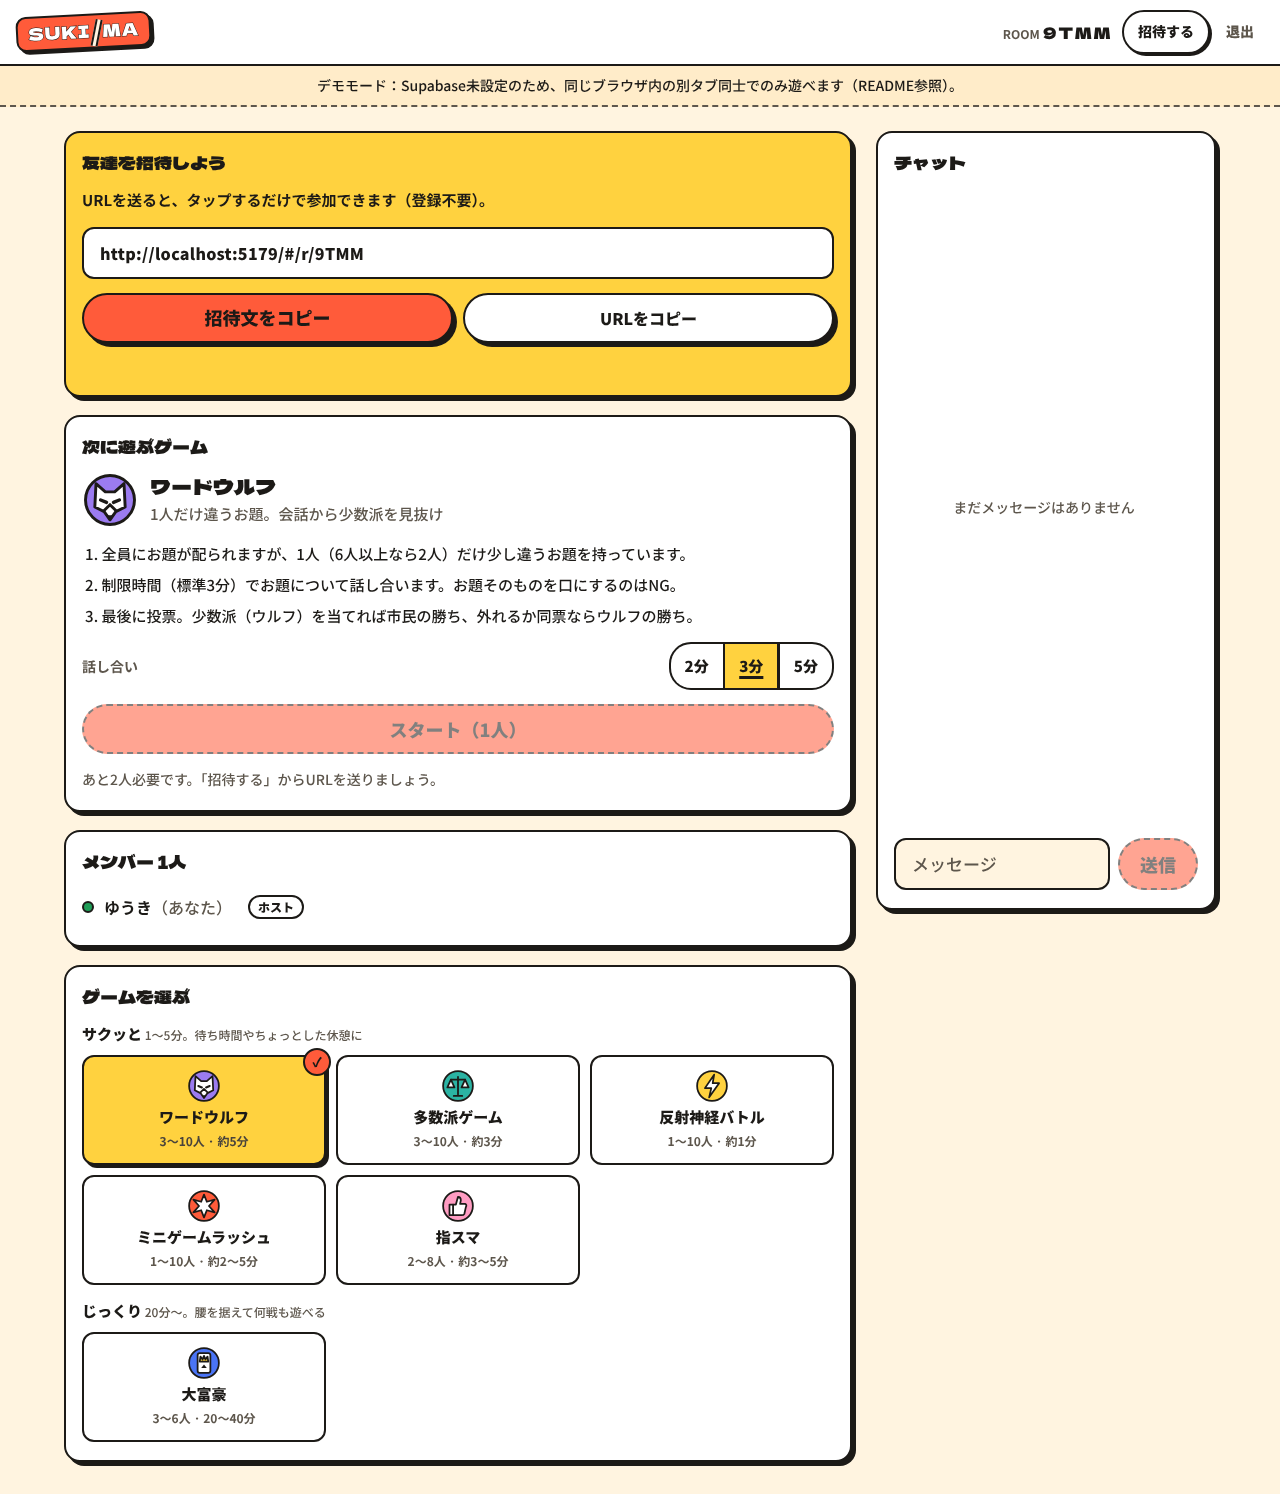
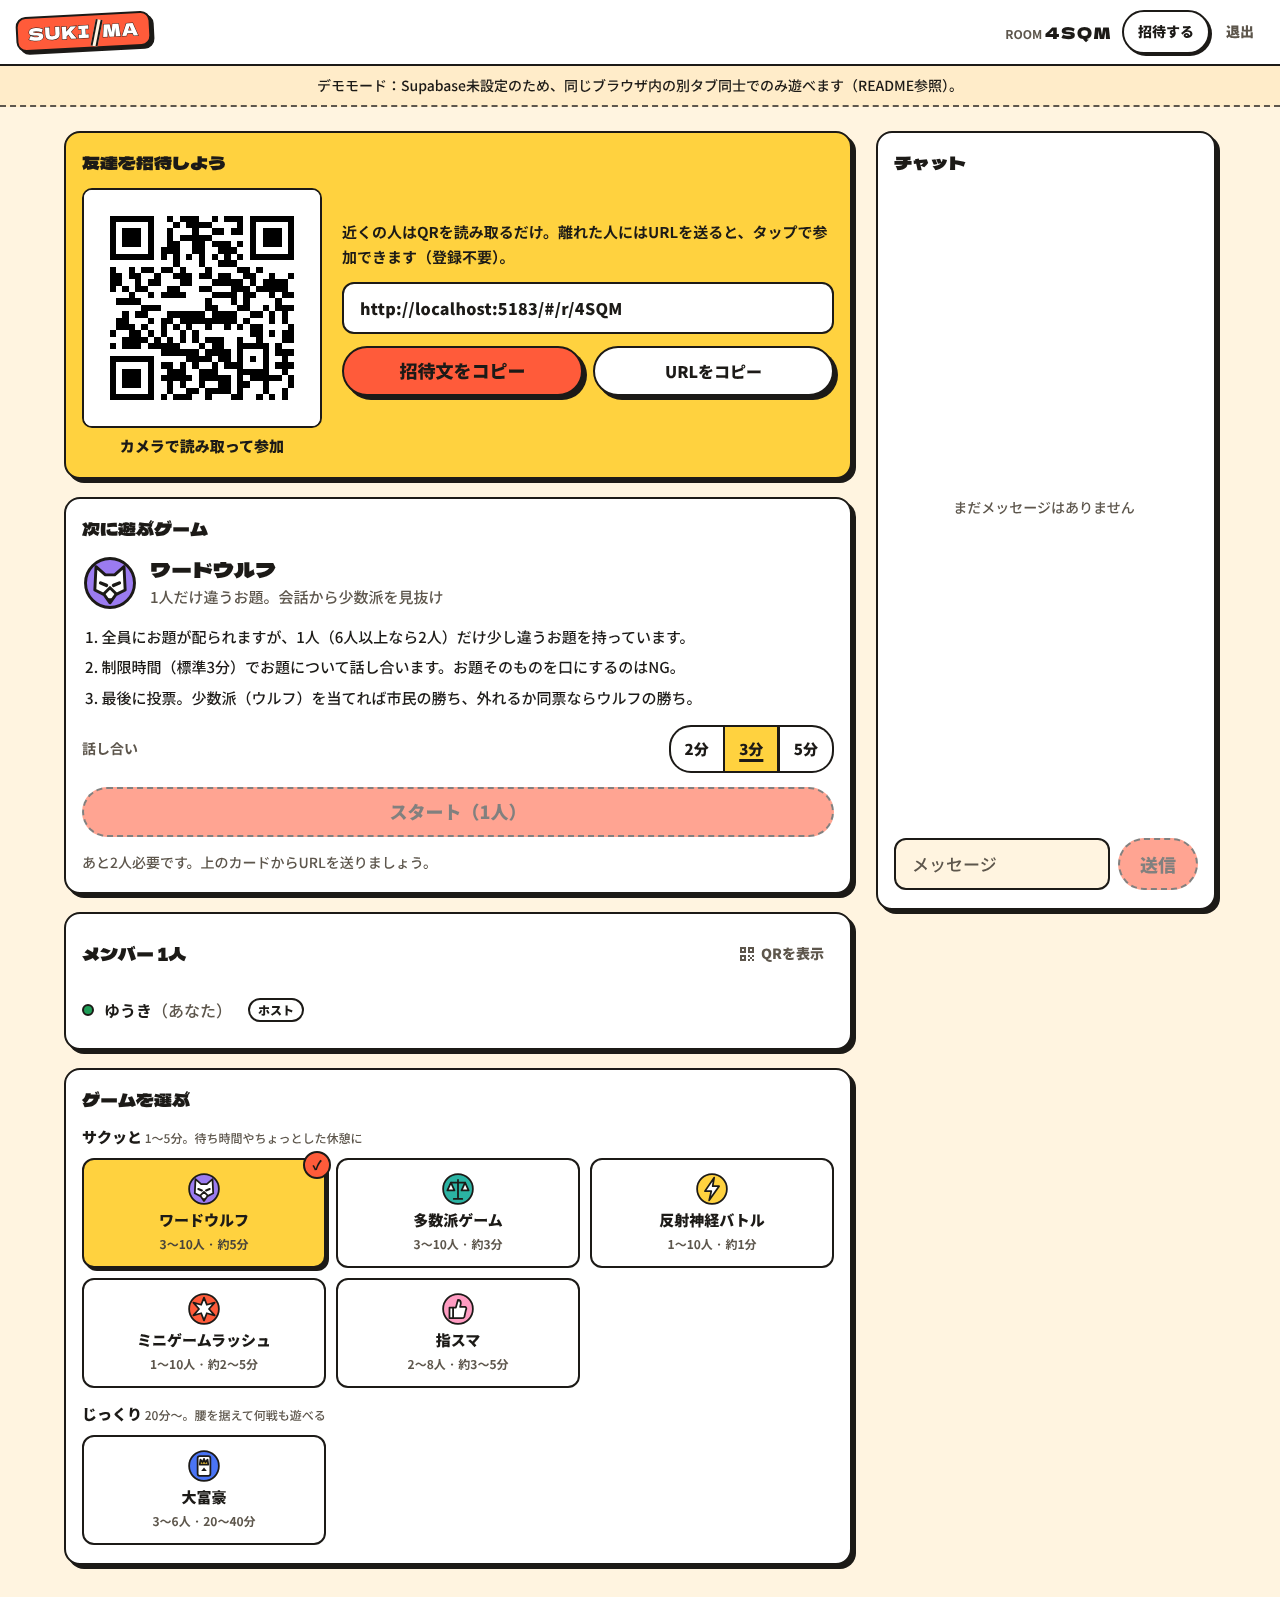
Show invite URL QR code in lobby (D-25)
Claude-Session: https://claude.ai/code/session_01H41cTqMxdqRgXVNK8y2DkT

diff --git a/src/components/Room.tsx b/src/components/Room.tsx
@@ -7,6 +7,7 @@ import { isOnlineMode } from '../lib/transport';
 import { chatBlockedUntil, MAX_ROOM_PLAYERS, type RoomState } from '../room/logic';
 import { useRoom, type RoomHandle } from '../room/useRoom';
 import Chat from './Chat';
+import QrCode from './QrCode';
 import GameIcon, { ChatIcon } from './GameIcon';
 import ErrorBoundary, { CrashScreen, reloadPage } from './ErrorBoundary';
 import { Brand, DemoBanner } from './Layout';
@@ -392,7 +393,7 @@ function Members({
   onKick: (id: string) => void;
 }) {
   return (
-    <Panel className="members-panel" title={`メンバー ${state.players.length}人`}>
+    <Panel className="members-panel" title={`メンバー ${state.players.length}人`} aside={<QrButton code={state.code} />}>
       <ul className="members">
         {state.players.map((p) => (
           <li key={p.id} className={online.has(p.id) ? '' : 'offline'}>
@@ -461,6 +462,54 @@ function GameCrashed({ onRetry, onLobby }: { onRetry: () => void; onLobby?: () =
   );
 }
 
+// 2 人以上になって招待カードが消えたあとも、目の前の人を追加で呼べるように QR を出す（D-25）。
+// ヘッダーは 320px で既に 1 行ぎりぎり（QA-BUG-08）なので、メンバー欄の見出しに置く
+function QrButton({ code }: { code: string }) {
+  const [open, setOpen] = useState(false);
+  return (
+    <>
+      <button className="btn small ghost qr-btn" onClick={() => setOpen(true)} aria-haspopup="dialog">
+        <QrGlyph />
+        QRを表示
+      </button>
+      {open && <QrDialog url={roomUrl(code)} code={code} onClose={() => setOpen(false)} />}
+    </>
+  );
+}
+
+function QrDialog({ url, code, onClose }: { url: string; code: string; onClose: () => void }) {
+  useEffect(() => {
+    const onKey = (e: KeyboardEvent) => {
+      if (e.key === 'Escape') onClose();
+    };
+    window.addEventListener('keydown', onKey);
+    return () => window.removeEventListener('keydown', onKey);
+  }, [onClose]);
+  return (
+    <div className="qr-backdrop" onClick={onClose}>
+      <div className="qr-dialog" role="dialog" aria-modal="true" aria-label="招待のQRコード" onClick={(e) => e.stopPropagation()}>
+        <QrCode text={url} label="招待URLのQRコード" />
+        <p className="qr-caption">カメラで読み取って参加</p>
+        <p className="muted qr-code-line">
+          ROOM <span className="mono">{code}</span>
+        </p>
+        <button className="btn" onClick={onClose} autoFocus>
+          閉じる
+        </button>
+      </div>
+    </div>
+  );
+}
+
+// ボタン用の小さな QR の印（中身は飾り。読み取り用ではない）
+function QrGlyph() {
+  return (
+    <svg className="qr-glyph" viewBox="0 0 16 16" aria-hidden="true" fill="currentColor">
+      <path d="M1 1h6v6H1zm2 2v2h2V3zM9 1h6v6H9zm2 2v2h2V3zM1 9h6v6H1zm2 2v2h2v-2zM9 9h2v2H9zm2 2h2v2h-2zm2-2h2v2h-2zm0 4h2v2h-2zm-4 0h2v2H9z" />
+    </svg>
+  );
+}
+
 // ホスト 1 人のロビーで最初に見せる招待カード（J-02）。URL を見せ、コピーと共有を大きいボタンで並べる
 function InviteCard({ code, gameName }: { code: string; gameName: string | undefined }) {
   const url = roomUrl(code);
@@ -486,25 +535,34 @@ function InviteCard({ code, gameName }: { code: string; gameName: string | undef
   };
   return (
     <Panel className="invite-panel" title="友達を招待しよう">
-      <p className="lead-sm">URLを送ると、タップするだけで参加できます（登録不要）。</p>
-      <input
-        className="invite-url mono"
-        readOnly
-        value={url}
-        aria-label="招待URL"
-        onFocus={(e) => e.currentTarget.select()}
-      />
-      <div className="invite-actions">
-        <button className="btn primary" onClick={share}>
-          {canWebShare() ? '招待を送る' : '招待文をコピー'}
-        </button>
-        <button className="btn" onClick={copyUrl}>
-          URLをコピー
-        </button>
+      <div className="invite-body">
+        {/* 対面で集まっているとき（D-25）は、URL を送るより目の前で読んでもらう方が早い */}
+        <figure className="invite-qr">
+          <QrCode text={url} label="招待URLのQRコード" />
+          <figcaption>カメラで読み取って参加</figcaption>
+        </figure>
+        <div className="invite-text">
+          <p className="lead-sm">近くの人はQRを読み取るだけ。離れた人にはURLを送ると、タップで参加できます（登録不要）。</p>
+          <input
+            className="invite-url mono"
+            readOnly
+            value={url}
+            aria-label="招待URL"
+            onFocus={(e) => e.currentTarget.select()}
+          />
+          <div className="invite-actions">
+            <button className="btn primary" onClick={share}>
+              {canWebShare() ? '招待を送る' : '招待文をコピー'}
+            </button>
+            <button className="btn" onClick={copyUrl}>
+              URLをコピー
+            </button>
+          </div>
+          <p className="invite-note" role="status" aria-live="polite">
+            {note}
+          </p>
+        </div>
       </div>
-      <p className="invite-note" role="status" aria-live="polite">
-        {note}
-      </p>
     </Panel>
   );
 }

diff --git a/src/styles.css b/src/styles.css
@@ -984,6 +984,115 @@ input:focus {
   text-align: center;
 }
 
+/* 招待カードの中身。スマホでは QR を上に大きく、広い画面では QR を左・URL とボタンを右に並べる */
+.invite-body {
+  display: flex;
+  flex-direction: column;
+  gap: 14px;
+}
+
+.invite-text {
+  display: flex;
+  flex-direction: column;
+  gap: 12px;
+  min-width: 0;
+  flex: 1;
+}
+
+.invite-qr {
+  margin: 0;
+  display: flex;
+  flex-direction: column;
+  align-items: center;
+  gap: 6px;
+}
+
+/* 360px でもカメラで読める大きさ（目安 180px 以上）。余白は SVG の中に 4 セル分ある */
+.invite-qr .qr {
+  width: min(220px, 70vw);
+}
+
+.invite-qr figcaption,
+.qr-caption {
+  font-weight: 900;
+  font-size: 15px;
+  text-align: center;
+}
+
+@media (min-width: 640px) {
+  .invite-body {
+    flex-direction: row;
+    align-items: center;
+    gap: 20px;
+  }
+
+  .invite-qr .qr {
+    width: 240px;
+  }
+}
+
+/* QR は常に白地に黒（ダークテーマでも反転しない）。枠線は墨で、白い余白と背景の境目を分かるようにする */
+.qr {
+  display: block;
+  aspect-ratio: 1;
+  height: auto;
+  background: #fff;
+  border: var(--stroke) solid var(--ink);
+  border-radius: 10px;
+}
+
+.qr-btn {
+  gap: 6px;
+}
+
+.qr-glyph {
+  width: 16px;
+  height: 16px;
+  flex: none;
+}
+
+.qr-backdrop {
+  position: fixed;
+  inset: 0;
+  z-index: 40;
+  background: rgb(0 0 0 / 0.6);
+  display: grid;
+  place-items: center;
+  padding: 16px;
+}
+
+.qr-dialog {
+  background: var(--surface);
+  color: var(--text);
+  border: var(--stroke) solid var(--line);
+  border-radius: 20px;
+  padding: 20px;
+  display: flex;
+  flex-direction: column;
+  align-items: center;
+  gap: 10px;
+  width: min(100%, 400px);
+  animation: sheet-up 0.2s ease-out;
+}
+
+/* モーダルは QR を見せるためだけのものなので、画面に収まる範囲でできるだけ大きく出す */
+.qr-dialog .qr {
+  width: min(100%, 340px, 60dvh);
+}
+
+.qr-dialog p {
+  margin: 0;
+}
+
+.qr-code-line .mono {
+  font-size: 18px;
+  color: var(--text);
+}
+
+.qr-dialog .btn {
+  width: 100%;
+}
+
 .selected-panel {
   order: 1;
 }

diff --git a/src/components/QrCode.tsx b/src/components/QrCode.tsx
@@ -1,0 +1,43 @@
+import { useMemo } from 'react';
+import qrcode from 'qrcode-generator';
+
+// 招待 URL の QR コード（D-25：対面で集まっている人をすぐ部屋に入れる）。
+// 部屋の URL を第三者に送らないよう、外部の QR 生成サービスは使わずブラウザ内で作る。
+// ライブラリの createSvgTag は文字列を返すので innerHTML が要る。それを避け、
+// セルの明暗だけを読んで React の <path> として描く。
+
+// 読み取りに要る白い余白（クワイエットゾーン）。規格の推奨どおり 4 セル分取る
+const QUIET = 4;
+
+// 黒いセルを 1 本の path にまとめる（セルごとに <rect> を作ると数百〜千個の要素になるため）
+function qrPath(text: string): { size: number; d: string } {
+  // 誤り訂正 M：URL が短いので型番を上げすぎず、画面の反射や指のかぶりにもある程度耐える
+  const qr = qrcode(0, 'M');
+  qr.addData(text, 'Byte');
+  qr.make();
+  const n = qr.getModuleCount();
+  let d = '';
+  for (let r = 0; r < n; r++) {
+    for (let c = 0; c < n; c++) {
+      if (qr.isDark(r, c)) d += `M${c + QUIET} ${r + QUIET}h1v1h-1z`;
+    }
+  }
+  return { size: n + QUIET * 2, d };
+}
+
+export default function QrCode({ text, label, className }: { text: string; label: string; className?: string }) {
+  const { size, d } = useMemo(() => qrPath(text), [text]);
+  return (
+    // ダークテーマでも反転させず、常に白地に黒で描く（反転した QR は読めないカメラがある）
+    <svg
+      className={`qr${className ? ` ${className}` : ''}`}
+      viewBox={`0 0 ${size} ${size}`}
+      role="img"
+      aria-label={label}
+      shapeRendering="crispEdges"
+    >
+      <rect width={size} height={size} fill="#fff" />
+      <path d={d} fill="#000" />
+    </svg>
+  );
+}
